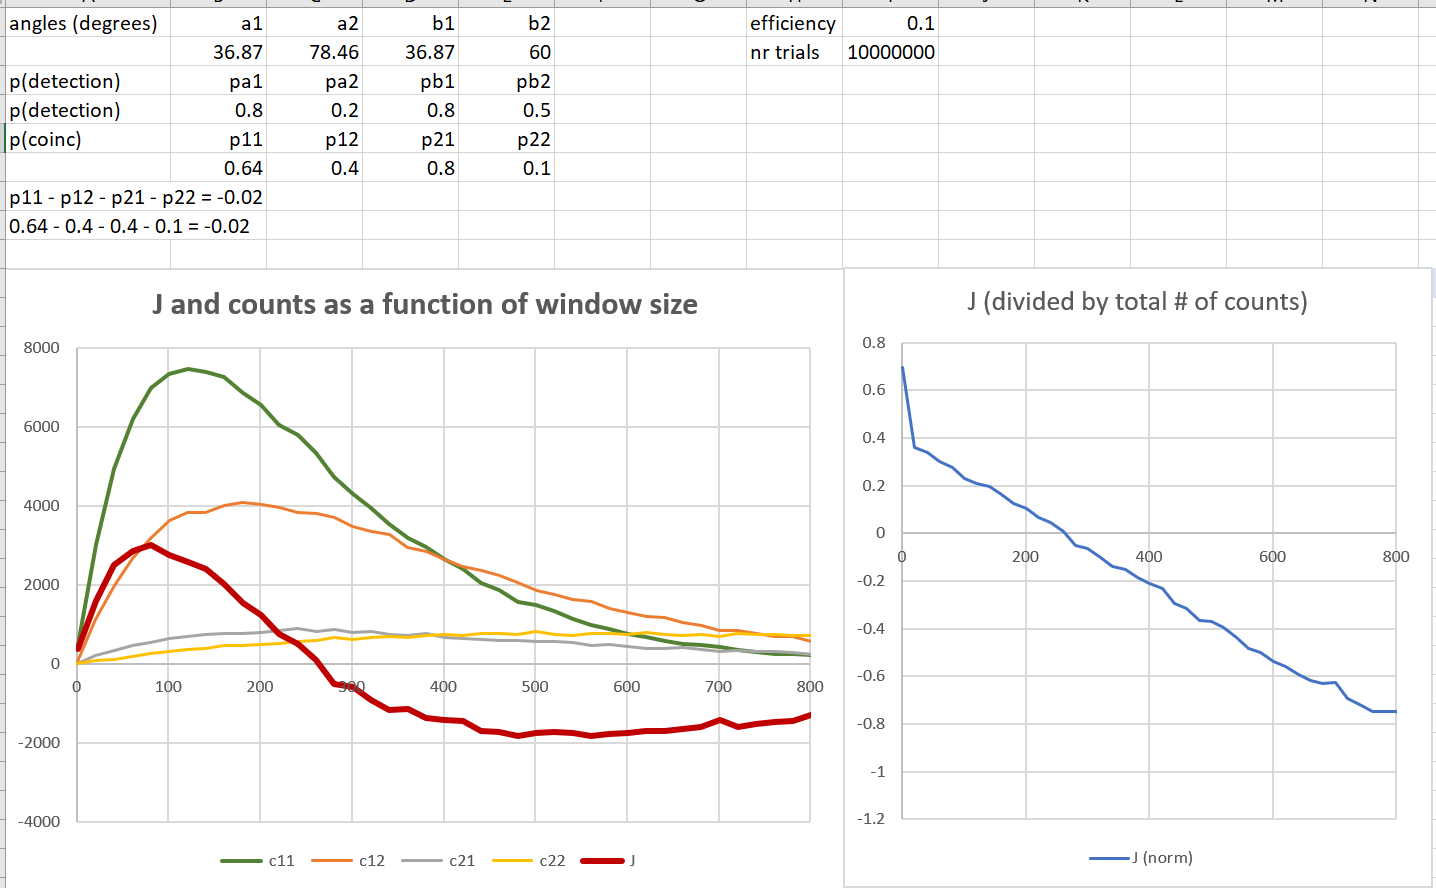
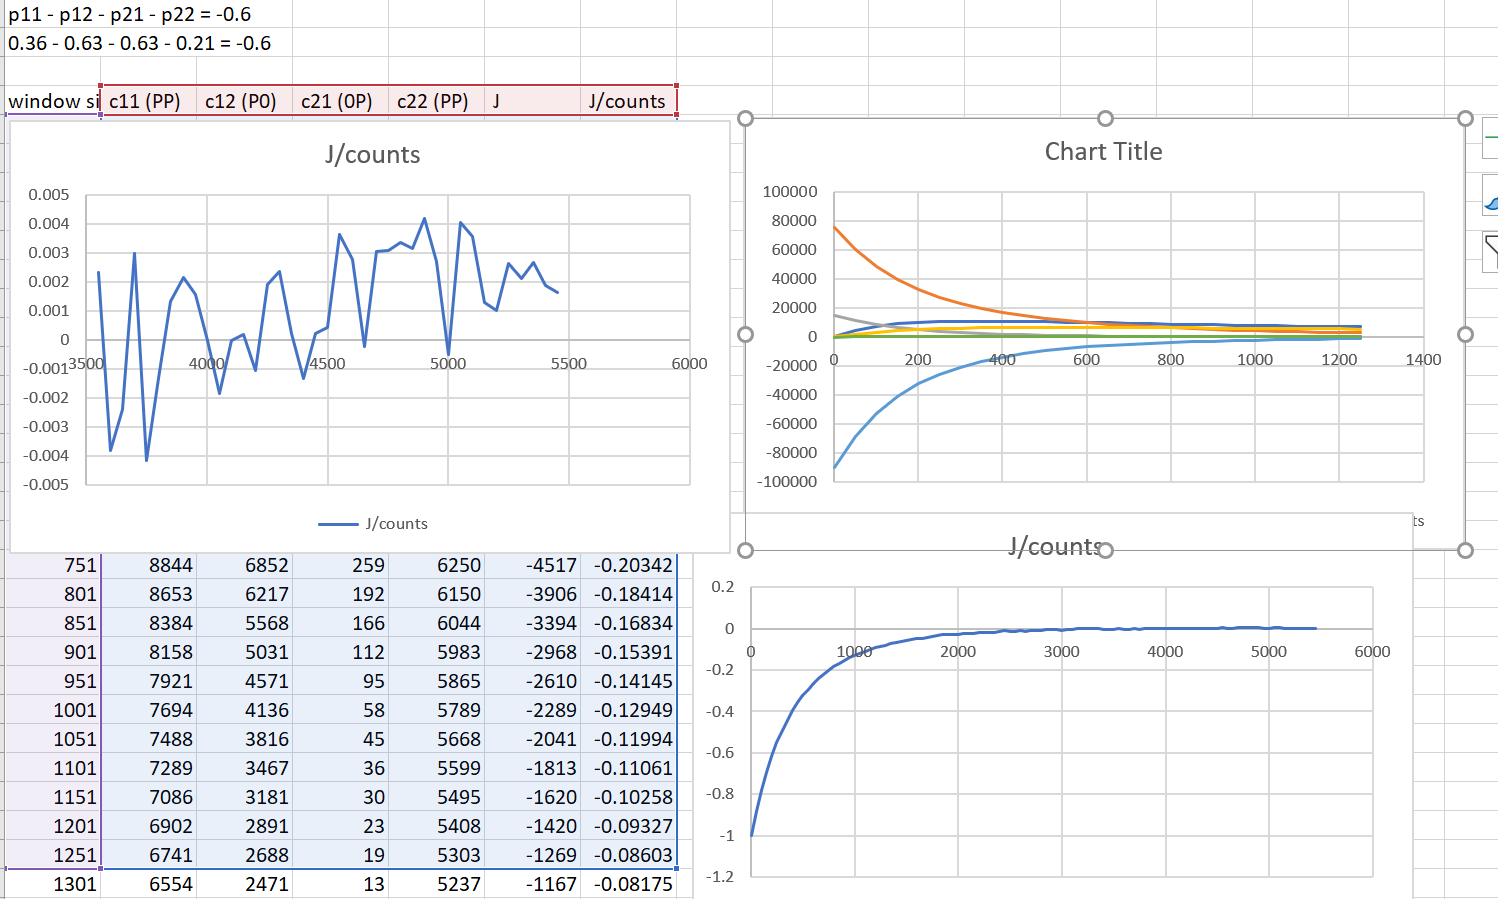
fixes

Changed region(s): [[0.0, 0.0, 1.0, 1.0], [0.9499, 0.8818, 1.0, 1.0], [0.3064, 0.5169, 0.337, 0.5777]]

diff --git a/src/simulation/WindowTest.java b/src/simulation/WindowTest.java
@@ -39,23 +39,31 @@ import java.util.Random;
 public class WindowTest {
 
     /* detection events at A and B */
-    boolean[] deta;
-    boolean[] detb;
+    boolean[] deta1a; // we record two streams each, since in reality, we cannot reuse any existing measurements
+    boolean[] deta1b;
+    boolean[] detb1a;
+    boolean[] detb1b;
+    boolean[] deta2a;
+    boolean[] detb2a;
+    boolean[] deta2b;
+    boolean[] detb2b;
 
     static Random rnd;
 
     int nrtrials;
     double efficiency;
     int uncertainty;
+    boolean acceptDoubleCounts;
 
     public WindowTest() {
         rnd = new Random();
         // Default random seed, can be overwritten via arguments in main
         rnd.setSeed(1234);
+        acceptDoubleCounts = true;
     }
 
     /* Simply count the nr of coincidences of A and B using FIXED windows */
-    public int countCoincidences(int windowSize, int a, int b) {
+    public int countCoincidences(int windowSize, int a, int b, boolean[] deta, boolean[] detb) {
         int count = 0;
 
         for (int startOfWindow = 0; startOfWindow + windowSize < nrtrials; startOfWindow += windowSize) {
@@ -65,9 +73,16 @@ public class WindowTest {
             for (int i = 0; i < windowSize; i++) {
                 if (deta[position + i]) {
                     aDetected++;
+                    // stop count at 1
+                    if (acceptDoubleCounts) {
+                        aDetected = Math.min(1, aDetected);
+                    }
                 }
                 if (detb[position + i]) {
                     bDetected++;
+                    if (acceptDoubleCounts) {
+                        bDetected = Math.min(1, bDetected);
+                    }
                 }
             }
             // we discard double counts - only if each window has one count it is considered valid
@@ -93,8 +108,8 @@ public class WindowTest {
                 if (uncertainty > 0) {
                     double expectedDistance = 1.0 / p; // mean distance between detection events
                     double relativeDistance = i % (int) expectedDistance; // current distance to next likely detection event
-                    relativeDistance= Math.min(Math.abs(expectedDistance-relativeDistance), relativeDistance);;
-                    prob = prob * pdf(relativeDistance, 0, uncertainty);                  
+                    relativeDistance = Math.min(Math.abs(expectedDistance - relativeDistance), relativeDistance);;
+                    prob = prob * pdf(relativeDistance, 0, uncertainty);
                 } // normal distribution around that position
                 det[i] = rnd.nextDouble() < prob;
             }
@@ -104,16 +119,17 @@ public class WindowTest {
 
     private void simpleWindowTest() {
         /* We chose probabilities that will lead to J < 0 */
+//  0.25, 0.9000000000000002, 0.6, 0.1
         double pa1 = 0.9;
-        double pa2 = 0.1;
-        double pb1 = 0.5;
+        double pa2 = 0.7;
+        double pb1 = 0.4;
         double pb2 = 0.3;
 
         /* the joint probabilities that determine J */
         double p11 = pa1 * pb1;
         double p22 = pa2 * pb2;
-        double p12 = (1.0-pa1) * pb2;
-        double p21 = pa2 * (1.0-pb1);
+        double p12 = pa1 * (1.0 - pb2);
+        double p21 = (1.0 - pa2) * pb1;
 
         double jloc = p11 - p22 - p21 - p12;
 
@@ -130,53 +146,51 @@ public class WindowTest {
         out += ",,,nr trials, " + nrtrials;
         out += "\np(detection), " + pa1 + ", " + pa2 + ", " + pb1 + ", " + pb2;
         out += ",,,uncertainty, " + uncertainty;
-        out += "\np(coinc), p11, p12, p21, p22";
+        out += "\np(coinc), p11(PP), p12(P0), p21(0P), p22(PP)";
         out += "\n, " + round(p11, 4) + ", " + round(p12, 4) + ", " + round(pb1, 4) + ", " + round(p22, 4);
         out += "\n\np11 - p12 - p21 - p22 = " + round(jloc, 4);
         out += "\n" + round(p11, 4) + " - " + round(p12, 4) + " - " + round(p12, 4) + " - " + round(p22, 4) + " = " + round(jloc, 4);
-        out += "\n\nwindow size, c11, c12, c21, c22, J, J/counts\n";
+        out += "\n\nwindow size, c11 (PP), c12 (P0), c21 (0P), c22 (PP), J, J/counts\n";
         p(out);
 
-        for (int window = 1; window < 1200; window += 20) {
-            // Detection stream and counts for A1 B1
-            deta = createDetectionStream(a1);
-            detb = createDetectionStream(b1);
-            int c11 = countCoincidences(window, 1, 1);
+        deta1a = createDetectionStream(a1);
+        detb1a = createDetectionStream(b1);
+        deta2a = createDetectionStream(a2);
+        detb2a = createDetectionStream(b2);
+        deta1b = createDetectionStream(a1);
+        detb1b = createDetectionStream(b1);
+        deta2b = createDetectionStream(a2);
+        detb2b = createDetectionStream(b2);
 
-            // Detection stream and counts for A2 B2
-            deta = createDetectionStream(a2);
-            detb = createDetectionStream(b2);
-            int c22 = countCoincidences(window, 1, 1);
+        int dw = 50;
+        for (int window = 1; window <= 5500; window += dw) {
 
-            // Detection stream and counts for A1 B2
-            deta = createDetectionStream(a1);
-            detb = createDetectionStream(b2);
-            int c12 = countCoincidences(window, 0, 1);
+            int c11 = countCoincidences(window, 1, 1, deta1a, detb1a);
+            int c12 = countCoincidences(window, 1, 0, deta1b, detb2a);
+            int c21 = countCoincidences(window, 0, 1, deta2a, detb1b);
+            int c22 = countCoincidences(window, 1, 1, deta2b, detb2b);
 
-            // Detection stream and counts for A2 B1
-            deta = createDetectionStream(a2);
-            detb = createDetectionStream(b1);
-            int c21 = countCoincidences(window,1, 0);
-
-           
             // Compute J based on Counts
             int j = c11 - c12 - c21 - c22;
+
             double norm = (double) j / (double) (c11 + c12 + c22 + c21);
-            String st = window + ", " + c11 + ", " + c12 + ", " + c21 + ", " + c22 + ", " + j + ", " + round(norm,5);
+            String st = window + ", " + c11 + ", " + c12 + ", " + c21 + ", " + c22 + ", " + j + ", " + round(norm, 5);
             out += st + "\n";
             p(st);
         }
-        writeStringToFile(new File("stream_u"+uncertainty+"_e"+efficiency+".csv"), out, false);
+        writeStringToFile(new File("stream_u" + uncertainty + "_e" + efficiency + "_n" + nrtrials + "_a.csv"), out, false);
         p(out);
     }
 
+   
     /* Read arguments */
     public static void main(String[] args) {
         WindowTest s = new WindowTest();
-        long seed = 555;
-        int trials = 1000000;
+      
+        long seed = 1234;
+        int trials = 10000000;
         double efficiency = 0.1;
-        int uncertainty = 2;
+        int uncertainty = 3;
         if (args != null && args.length > 1) {
             for (int i = 0; i + 1 < args.length; i += 2) {
                 String key = args[i].toUpperCase();

diff --git a/README.md b/README.md
@@ -14,7 +14,7 @@ So if the window size is 5, and we are counting c12 it would check "trials" 1 -5
 registered, it is counted as an event. (Double counts are discarded, but it also works if they are left in)
 - Compute the resulting c11 - c12 - c21 - c22 (=j)
 - Based on the probabilities alone, J should be negative (they are chosen such that J should be negative)
-- For some time windows, J however is clearly positive (not just a little bit :-)
+- J varies considerably based on the window size
 
 References:
 - https://arxiv.org/abs/1507.06231
@@ -36,7 +36,6 @@ java -jar Coincidences.jar  (all default values)
 It generates a file streams.csv with the angles and all the counts.
 (See example in folder)
 
-![Example Result](https://github.com/chenopodium/Coincidences/blob/master/windows.png)
 
 From Jan-Åke (forum discussion):
 "Christensen et al is pulsed, Giustina et al uses a continuous pump.
